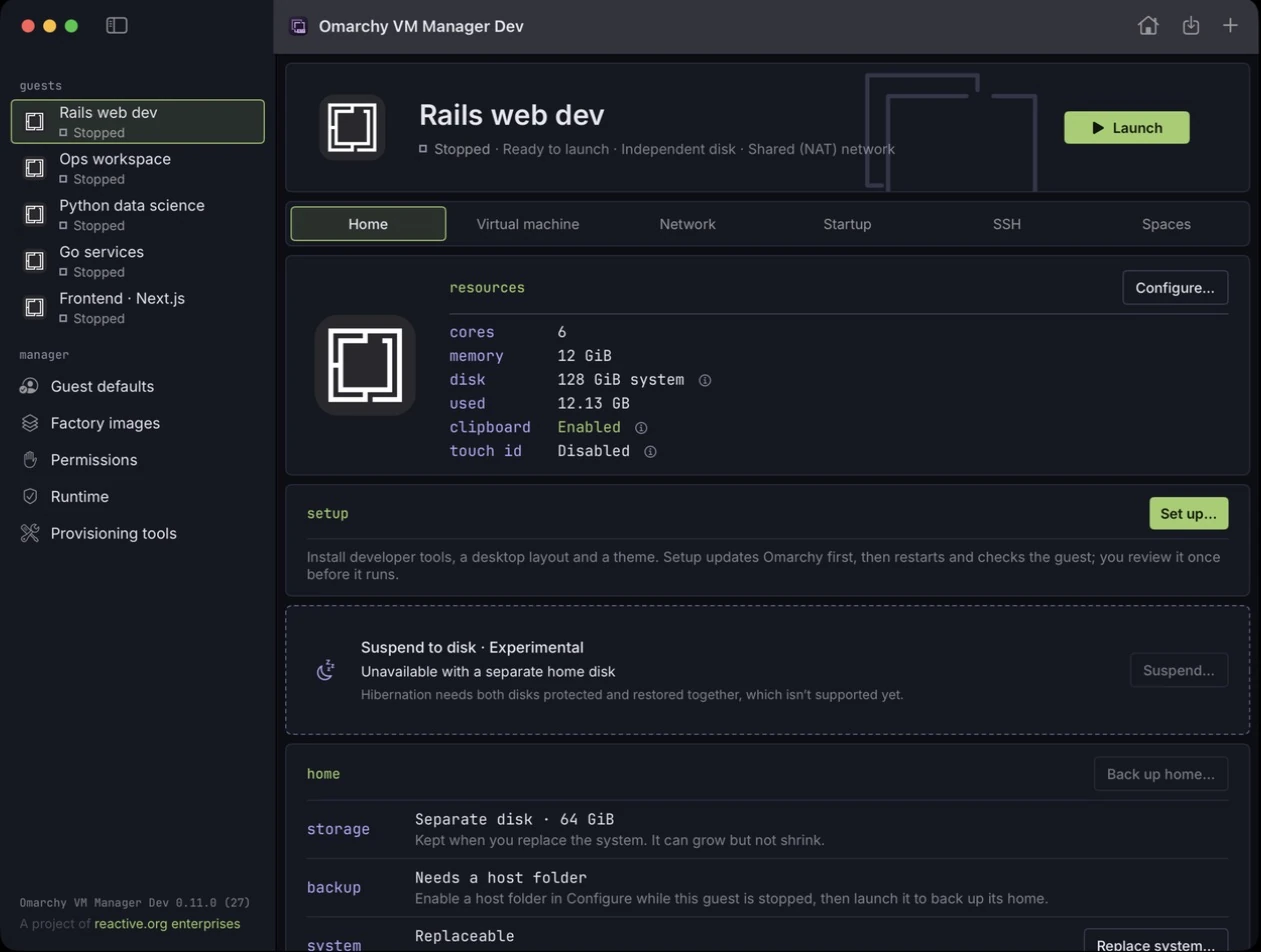
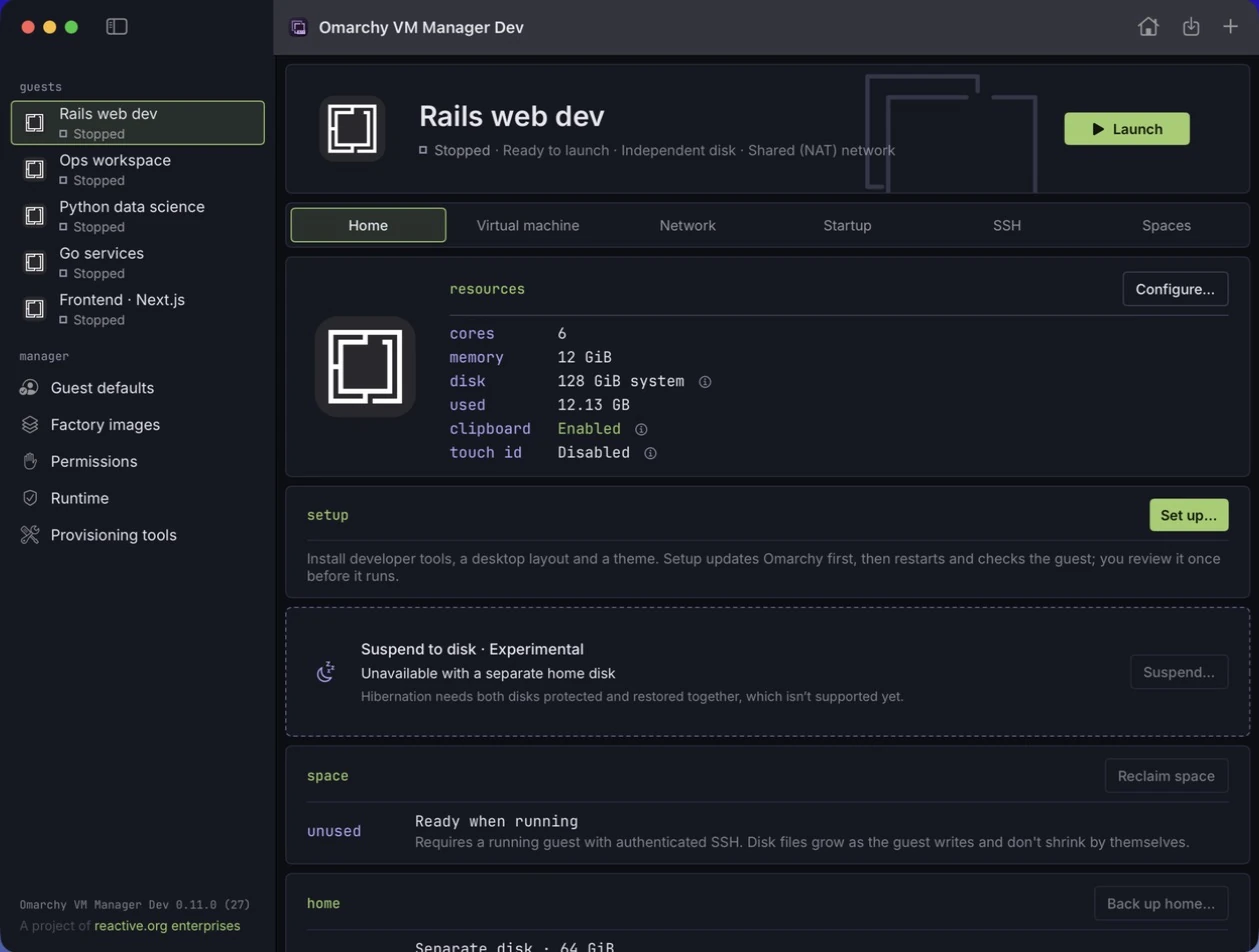
Refresh the guest Home screenshot with the space panel

diff --git a/docs/media/README.md b/docs/media/README.md
@@ -12,7 +12,7 @@ The guides link to the [demo video](https://www.reactive.org/omarchy-vm) on reac
 
 ## Size and format
 
-The 23 WebP screenshots total **1,190,234 bytes** (about 1.2 MB), below the 2 MB budget. Full-window screenshots are 1,261 × 952 at the capture's native width. The configuration form is cropped to the sheet and scaled to its earlier 1,040 width, and the guest desktop is scaled from 1,344 × 788 to 1,260 wide. The build and import sheets are unchanged. Metadata is removed.
+The guest Home image was retaken later the same day from the Reclaim space branch's Dev build (PR #48, also reporting 0.11.0 (27)) to show the new **space** panel. It shows the stopped Rails web dev guest, whose panel reads **Ready when running**. It is 1,259 × 952, the window's native 2× capture on the built-in display. The 23 WebP screenshots total **1,188,372 bytes** (about 1.2 MB), below the 2 MB budget. The other full-window screenshots are 1,261 × 952 at the capture's native width. The configuration form is cropped to the sheet and scaled to its earlier 1,040 width, and the guest desktop is scaled from 1,344 × 788 to 1,260 wide. The build and import sheets are unchanged. Metadata is removed.
 
 [`manifest.json`](manifest.json) records dimensions, hashes, exact byte counts and privacy crops. The original JPEG captures stay in the ignored `.build/user-doc-captures-2026-11-14/` folder. The SSH image is cropped before the personal public-key fingerprint row; that section is omitted, not redrawn. The configuration image keeps its access section closed, so the generated guest hostname never appears. In the New VM access image, the selected public key's fingerprint sits below the visible area. The Needs you image shows the default account name `omarchy` in sudo's password prompt and nothing typed. The guest desktop's terminal prompts show no username or hostname. Small areas of desktop show at the rounded window corners. Passwords, personal contact details, public-key fingerprints and private keys are absent from the shipped media. Other processing consists of cropping, resizing and compression.
 

diff --git a/docs/Validation.md b/docs/Validation.md
@@ -580,3 +580,13 @@ An earlier attempt on 12 November used the 8 November Lean Omarchy - edge factor
 - Whether the 12 November restart and check failure is specific to the edge factory or to that older build.
 - Setup on a manual-account-setup factory.
 - The edge factory's layout on a real guest.
+
+## Guest Home screenshot with Reclaim space — 14 November 2026
+
+With the user's approval, the title-fix worktree's Dev app was quit and the Reclaim space branch's Dev build (PR #48, reporting **0.11.0 (27)**) was opened. That build was used only to retake `guest-home.webp`, and only the Dev manager window (`dev.omarchy.vm-manager.dev`) was driven. The stopped **Rails web dev** guest's Home page was selected and scrolled to the top. The user brought the window to the front and moved it to the built-in Retina display, so the capture is focused and at 2×. Nothing was opened, saved or launched. All five Dev guests were stopped before and after. The title-fix Dev app was then restored, and the Stable app and its guests were not touched.
+
+**VERIFIED — real Dev window:**
+- The Home page shows the new **space** panel between experimental suspend to disk and home. For a stopped guest it reads **Ready when running**, with the **Reclaim space** button disabled.
+- The raw capture is a 1,259 × 952 JPEG of exactly the window; only desktop at the rounded corners is visible. The output is the native 1,259 width, not upscaled to the earlier 1,261.
+- The raw capture and WebP were reviewed for credentials, fingerprints, hostnames, personal identifiers, stray windows and the intended screen.
+- `manifest.json` and the media README match the file. The 23 screenshots total 1,188,372 bytes. The `managing-guests.md` alt text now names the space section.

diff --git a/docs/managing-guests.md b/docs/managing-guests.md
@@ -6,7 +6,7 @@
 
 Select a guest in the sidebar to open its **Home** page. It shows the guest's resources, its developer setup, experimental suspend to disk, reclaimable space and its home disk, with **Launch** or **Shut down** at the top. The tabs beside **Home** cover the virtual machine, networking, startup, SSH and Spaces. The suspend panel doesn't establish that a guest can hibernate; see [suspend requirements and limitations](Suspend.md).
 
-![The stopped guest Home page with Launch, resources, setup, experimental suspend to disk and home disk sections](media/guest-home.webp)
+![The stopped guest Home page with Launch, resources, setup, experimental suspend to disk, space and home disk sections](media/guest-home.webp)
 
 ## Back up a guest home
 
